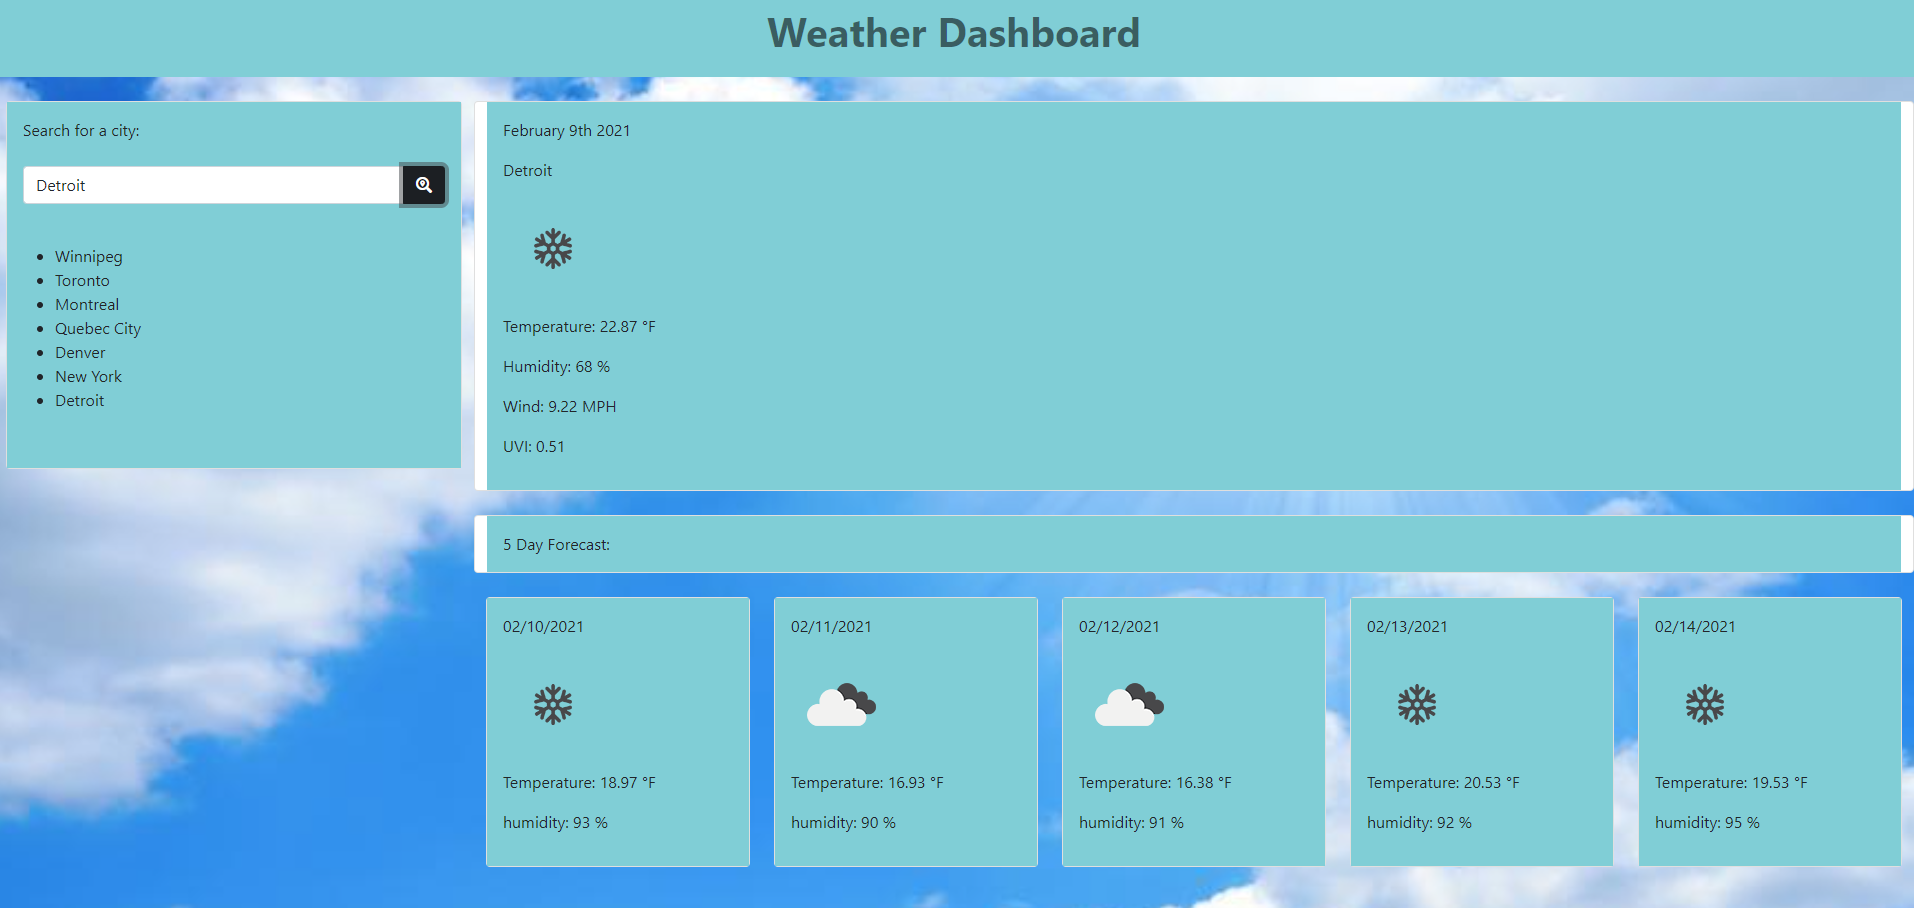
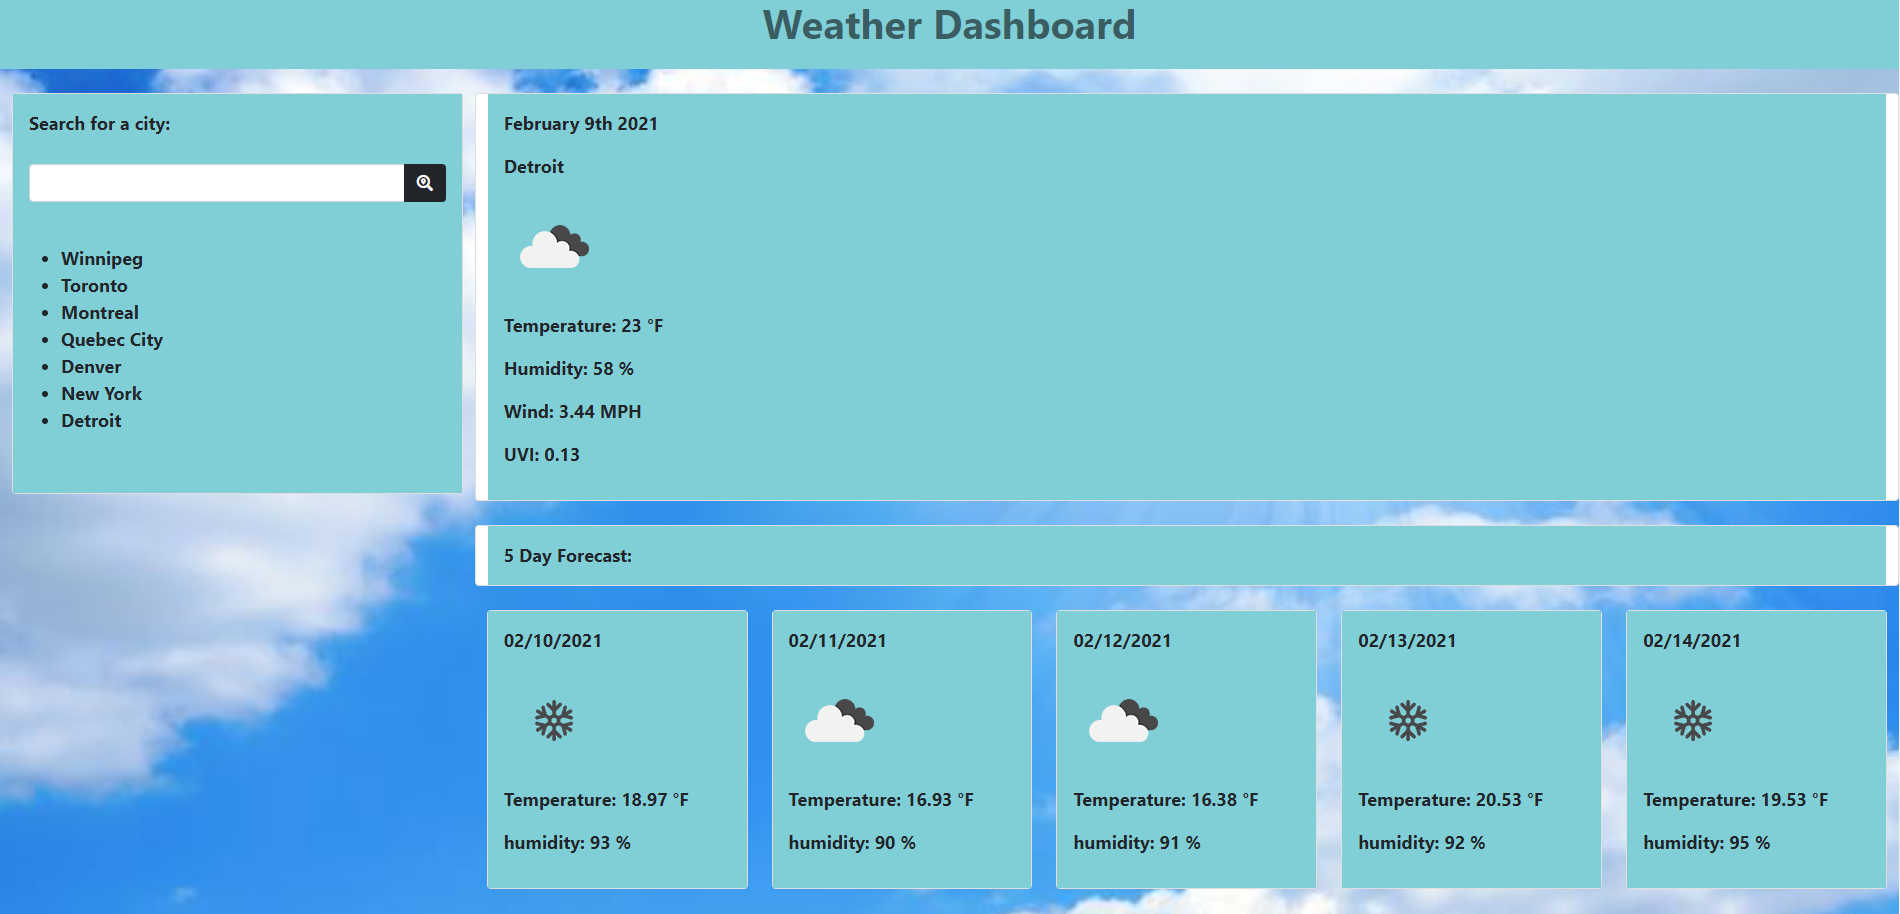
edited style and png

diff --git a/style.css b/style.css
@@ -19,6 +19,7 @@ body {
 
 .card1, .card2, .card3, .card4, .card5, .card-body {
     background-color:  #80ced6;
-    font: bold;
+    font-weight: bold;
+    font-size: large;
 }
 
